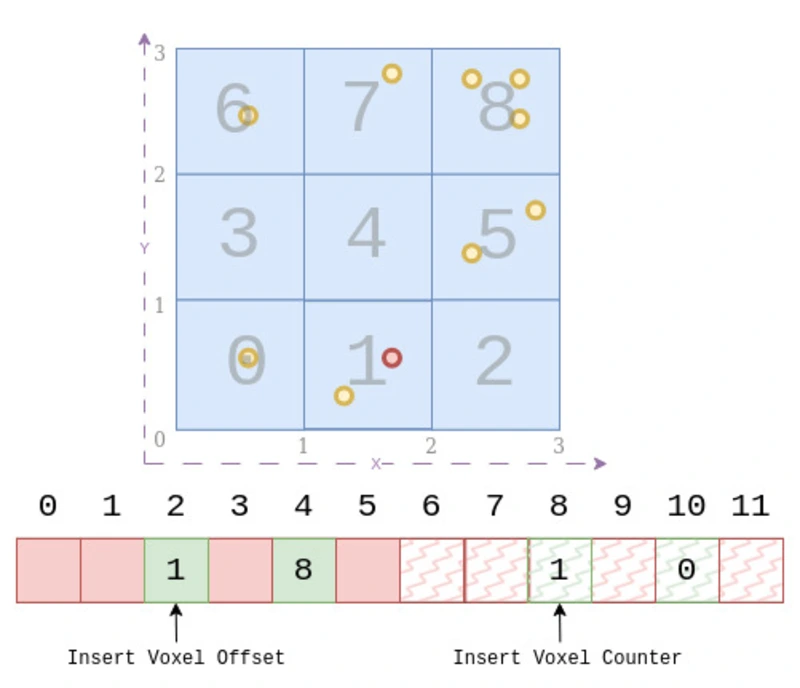
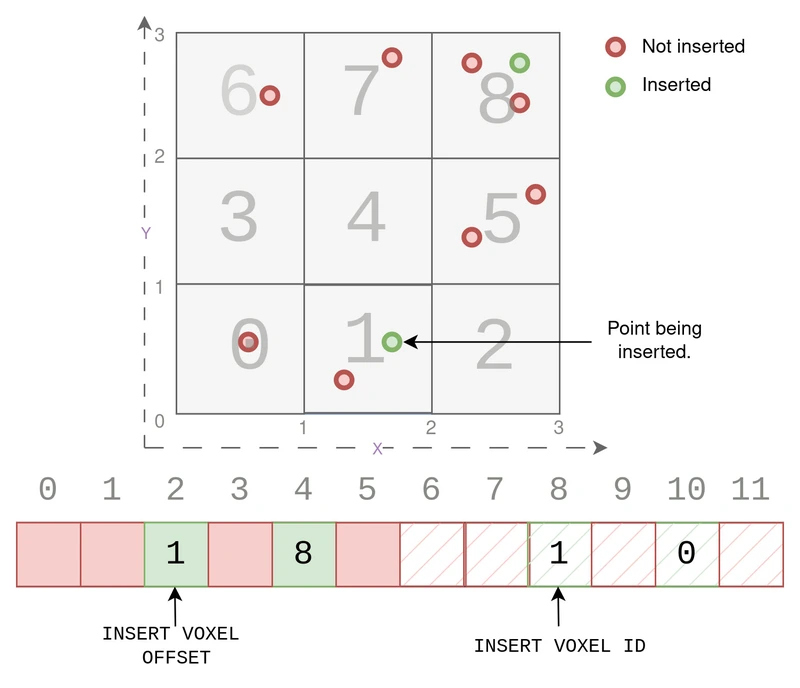
Deploying to gh-pages from @ sanket-pixel/sanket-pixel.github.io@0f0e8f33959f2e5c67426b42b5333c548780f601 🚀

diff --git a/blog/2023/cudaify-your-point-clouds/index.html b/blog/2023/cudaify-your-point-clouds/index.html
@@ -195,19 +195,20 @@
 <h2 id="1-intuition">1. Intuition</h2>
 <p>In this section, we will embark on an intuitive exploration of the point cloud voxelization process using CUDA. To that end, let’s first set the stage by taking a look at a simple 2D grid. We’ll create a 3x3 grid and randomly select 15 points within its boundaries. Some points will also lie slightly outside the grid to make the example more interesting. Visualizing this grid and its sample points, we get the following plot:</p>
 
+<div style="width: 60%;margin: 0 auto;">
 <div class="row">
     <div class="col-sm mt-3 mt-md-0 text-center"> <!-- Add 'text-center' class here -->
         <figure>
 
   <picture>
     
-    <source class="responsive-img-srcset" media="(max-width: 480px)" srcset="/assets/img/blog/blog_2/sample_grid-480.webp"></source>
-    <source class="responsive-img-srcset" media="(max-width: 800px)" srcset="/assets/img/blog/blog_2/sample_grid-800.webp"></source>
-    <source class="responsive-img-srcset" media="(max-width: 1400px)" srcset="/assets/img/blog/blog_2/sample_grid-1400.webp"></source>
+    <source class="responsive-img-srcset" media="(max-width: 480px)" srcset="/assets/img/blog/blog_2/points-480.webp"></source>
+    <source class="responsive-img-srcset" media="(max-width: 800px)" srcset="/assets/img/blog/blog_2/points-800.webp"></source>
+    <source class="responsive-img-srcset" media="(max-width: 1400px)" srcset="/assets/img/blog/blog_2/points-1400.webp"></source>
     
 
     <!-- Fallback to the original file -->
-    <img src="/assets/img/blog/blog_2/sample_grid.png" class="img-fluid rounded z-depth-1" width="auto" height="auto" title="latency compare" onerror="this.onerror=null; $('.responsive-img-srcset').remove();">
+    <img src="/assets/img/blog/blog_2/points.jpeg" class="img-fluid rounded z-depth-1" width="auto" height="auto" title="latency compare" onerror="this.onerror=null; $('.responsive-img-srcset').remove();">
 
   </picture>
 
@@ -218,8 +219,10 @@
 <div class="caption">
     The key steps involved in CUDA based Voxelization
 </div>
+</div>
 
 <p>Now, let us understand one last detail before we begin the actual processing. In the figure shown below, on the left, we have a 2D grid representing the cells with their corresponding indices ranging from (0, 0) to (2, 2). Each cell in the grid is identified by its x and y coordinates, starting from the bottom-left corner and progressing towards the top-right corner. However, from now on, we will refer to this serialized integer index as <code class="language-plaintext highlighter-rouge">voxel_offset</code>,  which uniquely represents each cell in a sequential order from 0 to 8, as shown on the right side of the figure.</p>
+<div style="width: 70%;margin: 0 auto;">
 <div class="row">
     <div class="col-sm mt-3 mt-md-0 text-center"> <!-- Add 'text-center' class here -->
         <figure>
@@ -232,7 +235,7 @@
     
 
     <!-- Fallback to the original file -->
-    <img src="/assets/img/blog/blog_2/serialize.png" class="img-fluid rounded z-depth-1" width="auto" height="auto" title="latency compare" onerror="this.onerror=null; $('.responsive-img-srcset').remove();">
+    <img src="/assets/img/blog/blog_2/serialize.jpeg" class="img-fluid rounded z-depth-1" width="auto" height="auto" title="latency compare" onerror="this.onerror=null; $('.responsive-img-srcset').remove();">
 
   </picture>
 
@@ -242,10 +245,12 @@
 </div>
 <div class="caption">
     The key steps involved in CUDA based Voxelization
+</div> 
 </div>
 <p>This <code class="language-plaintext highlighter-rouge">voxel_offset</code>` plays a crucial role in the upcoming CUDA-based voxelization process, allowing us to efficiently access and process voxel data in a linear manner. By representing the grid in this serialized format, we can easily map each voxel’s position to its corresponding voxel ID, making the hash map implementation more streamlined and intuitive.</p>
 
 <p>The process of converting a point cloud to voxels using CUDA involves three main steps: hash map building, voxelization, and feature extraction as shown in the Figure below. Hash map building efficiently stores information about unique voxels that contain points, eliminating the need to process all grid cells. Voxelization assigns each point to its corresponding voxel, creating a serialized array that stores point features for all voxels. Finally, feature extraction calculates the average features for each voxel, resulting in an efficient representation of point cloud features. In the following section we will understand each of these steps intuitively using our toy example before we delve into the real deal.</p>
+
 <div class="row">
     <div class="col-sm mt-3 mt-md-0 text-center"> <!-- Add 'text-center' class here -->
         <figure>
@@ -273,19 +278,20 @@
 <h4 id="a-build-hashmaps">A. Build Hashmaps</h4>
 <p>Now, let’s explore the crucial role of hash maps in the voxelization process. Before diving into the intricacies of building hash maps, it’s essential to understand why they are necessary. In our 3x3 grid example, we observed that out of the 9 cells, only 6 cells contain points, while the remaining 3 cells are entirely empty (as marked in red in the figure below). This situation presents a compelling opportunity for optimization, as processing all 9x9 cells would be highly inefficient and computationally wasteful. That’s where hash maps comes into play.</p>
 
+<div style="width: 70%;margin: 0 auto;">
 <div class="row">
     <div class="col-sm mt-3 mt-md-0 text-center"> <!-- Add 'text-center' class here -->
         <figure>
 
   <picture>
     
-    <source class="responsive-img-srcset" media="(max-width: 480px)" srcset="/assets/img/blog/blog_2/empty-cells-480.webp"></source>
-    <source class="responsive-img-srcset" media="(max-width: 800px)" srcset="/assets/img/blog/blog_2/empty-cells-800.webp"></source>
-    <source class="responsive-img-srcset" media="(max-width: 1400px)" srcset="/assets/img/blog/blog_2/empty-cells-1400.webp"></source>
+    <source class="responsive-img-srcset" media="(max-width: 480px)" srcset="/assets/img/blog/blog_2/empty_voxels-480.webp"></source>
+    <source class="responsive-img-srcset" media="(max-width: 800px)" srcset="/assets/img/blog/blog_2/empty_voxels-800.webp"></source>
+    <source class="responsive-img-srcset" media="(max-width: 1400px)" srcset="/assets/img/blog/blog_2/empty_voxels-1400.webp"></source>
     
 
     <!-- Fallback to the original file -->
-    <img src="/assets/img/blog/blog_2/empty-cells.png" class="img-fluid rounded z-depth-1" width="auto" height="auto" title="latency compare" onerror="this.onerror=null; $('.responsive-img-srcset').remove();">
+    <img src="/assets/img/blog/blog_2/empty_voxels.jpeg" class="img-fluid rounded z-depth-1" width="auto" height="auto" title="latency compare" onerror="this.onerror=null; $('.responsive-img-srcset').remove();">
 
   </picture>
 
@@ -295,6 +301,7 @@
 </div>
 <div class="caption">
     The key steps involved in CUDA based Voxelization
+</div> 
 </div>
 
 <p>Hash maps offer an efficient way to store and access data by associating each voxel’s position with its corresponding information. By directly mapping the unique voxel positions as keys( <code class="language-plaintext highlighter-rouge">voxel_offset</code> as described earlier ) to their respective <code class="language-plaintext highlighter-rouge">voxel_id</code>s ( will be explained soon) as values, we can efficiently eliminate the need to process all the empty cells. This approach drastically reduces memory consumption and processing time, making voxelization of point clouds significantly faster and more resource-efficient. So, let’s now understand how we go from our scattered 2D points, with certain empty cells, to an efficient and compact hashmap :</p>
@@ -388,6 +395,7 @@ total_voxel++
 <p>As seen in the figure below, we simply insert the given key 8, at the computed slot 4, because it was empty. Then we insert the corresponding value at slot 10, (4+6).
 The value is zero because this is the first unique voxel being inserted in the hash table.</p>
 
+<div style="width: 70%;margin: 0 auto;">
 <div class="row">
 <div class="col-sm mt-3 mt-md-0 text-center">
     <figure>
@@ -400,7 +408,7 @@ The value is zero because this is the first unique voxel being inserted in the h
     
 
     <!-- Fallback to the original file -->
-    <img src="/assets/img/blog/blog_2/insert1.jpg" class="img-fluid rounded z-depth-1" width="auto" height="auto" title="hash table" onerror="this.onerror=null; $('.responsive-img-srcset').remove();">
+    <img src="/assets/img/blog/blog_2/insert1.jpeg" class="img-fluid rounded z-depth-1" width="auto" height="auto" title="hash table" onerror="this.onerror=null; $('.responsive-img-srcset').remove();">
 
   </picture>
 
@@ -410,6 +418,7 @@ The value is zero because this is the first unique voxel being inserted in the h
 </div>
 <div class="caption">
     Example 1 : Hash insert operation for point Pt(2.3,2.8) in red. Inserting key 8 at slot (4) and value 0, at slot (4+6=10). 
+</div> 
 </div>
 
 <h4 id="example-2">Example 2</h4>
@@ -445,6 +454,7 @@ total_voxel++
 <p>As seen in the figure below, we simply insert the given key 1, at the computed slot 2, because it was empty. Then we insert the corresponding value at slot 8, (2+6).
 The value is the count of the current voxels, which is 1.</p>
 
+<div style="width: 70%;margin: 0 auto;">
 <div class="row">
 <div class="col-sm mt-3 mt-md-0 text-center">
     <figure>
@@ -457,7 +467,7 @@ The value is the count of the current voxels, which is 1.</p>
     
 
     <!-- Fallback to the original file -->
-    <img src="/assets/img/blog/blog_2/insert2.jpg" class="img-fluid rounded z-depth-1" width="auto" height="auto" title="hash table" onerror="this.onerror=null; $('.responsive-img-srcset').remove();">
+    <img src="/assets/img/blog/blog_2/insert2.jpeg" class="img-fluid rounded z-depth-1" width="auto" height="auto" title="hash table" onerror="this.onerror=null; $('.responsive-img-srcset').remove();">
 
   </picture>
 
@@ -467,6 +477,7 @@ The value is the count of the current voxels, which is 1.</p>
 </div>
 <div class="caption">
      Example 2 : Hash insert operation for point Pt(1.8,0.5) shown in red. Inserting key 1 at slot (2) and value 0, at slot (2+6=8). 
+</div> 
 </div>
 
 <h4 id="example-3">Example 3</h4>
@@ -503,6 +514,7 @@ total_voxel++
 <p>Now we look at a more interesting example where the slot computed using the modulus of the hashed key is already present in the hash table. So a collision occurs, because the slot is 
 already filled up by a different key. We look at this case while trying to insert a Point (1.7,2.8). In such a case of collision, we simply insert the key in the next free slot, which in this case is slot (3), as shown below.</p>
 
+<div style="width: 70%;margin: 0 auto;">
 <div class="row">
 <div class="col-sm mt-3 mt-md-0 text-center">
     <figure>
@@ -515,7 +527,7 @@ already filled up by a different key. We look at this case while trying to inser
     
 
     <!-- Fallback to the original file -->
-    <img src="/assets/img/blog/blog_2/collision.jpg" class="img-fluid rounded z-depth-1" width="auto" height="auto" title="hash table" onerror="this.onerror=null; $('.responsive-img-srcset').remove();">
+    <img src="/assets/img/blog/blog_2/collision.jpeg" class="img-fluid rounded z-depth-1" width="auto" height="auto" title="hash table" onerror="this.onerror=null; $('.responsive-img-srcset').remove();">
 
   </picture>
 
@@ -526,6 +538,7 @@ already filled up by a different key. We look at this case while trying to inser
 <div class="caption">
      Example 3 : Hash insert operation for point Pt(1.7,2.8) shown in red. The slot (2) already has key 1 present, which is different from key 7. This indicates a collision, we insert in 
      in the next empty slot which is slot 3. This is called linear probing.
+</div> 
 </div>
 
 <h4 id="example-4">Example 4</h4>
@@ -560,19 +573,20 @@ hash_table[slot] != Empty &amp;&amp; hash_table[slot] == key
 <p>As seen in the figure below, we skip insertion, at the computed slot 2, because it already had the current points key 1. The goal is to only store unique <code class="language-plaintext highlighter-rouge">voxel_offset</code> as key
 and the number of such unique voxels as values. Since this <code class="language-plaintext highlighter-rouge">voxel_offset</code> has already been inserted in the hash table and is not unique, we simply skip insertion.</p>
 
+<div style="width: 70%;margin: 0 auto;">
 <div class="row">
 <div class="col-sm mt-3 mt-md-0 text-center">
     <figure>
 
   <picture>
     
-    <source class="responsive-img-srcset" media="(max-width: 480px)" srcset="/assets/img/blog/blog_2/already_inserted-480.webp"></source>
-    <source class="responsive-img-srcset" media="(max-width: 800px)" srcset="/assets/img/blog/blog_2/already_inserted-800.webp"></source>
-    <source class="responsive-img-srcset" media="(max-width: 1400px)" srcset="/assets/img/blog/blog_2/already_inserted-1400.webp"></source>
+    <source class="responsive-img-srcset" media="(max-width: 480px)" srcset="/assets/img/blog/blog_2/already-inserted-480.webp"></source>
+    <source class="responsive-img-srcset" media="(max-width: 800px)" srcset="/assets/img/blog/blog_2/already-inserted-800.webp"></source>
+    <source class="responsive-img-srcset" media="(max-width: 1400px)" srcset="/assets/img/blog/blog_2/already-inserted-1400.webp"></source>
     
 
     <!-- Fallback to the original file -->
-    <img src="/assets/img/blog/blog_2/already_inserted.jpg" class="img-fluid rounded z-depth-1" width="auto" height="auto" title="hash table" onerror="this.onerror=null; $('.responsive-img-srcset').remove();">
+    <img src="/assets/img/blog/blog_2/already-inserted.jpeg" class="img-fluid rounded z-depth-1" width="auto" height="auto" title="hash table" onerror="this.onerror=null; $('.responsive-img-srcset').remove();">
 
   </picture>
 
@@ -581,10 +595,10 @@ and the number of such unique voxels as values. Since this <code class="language
 </div>
 </div>
 <div class="caption">
-     Example 2 : Hash insert operation for point Pt(1.3,0.3) shown in red.
+     Example 4 : Hash insert operation for point Pt(1.3,0.3) shown in red.
      No insertion happens, since slot already has same key.  
+</div> 
 </div>
-
 <p>And with that we cover all possible cases of hash insertion, and complete the major challenge of creation of the hash table for the given input points.</p>
 
 <!-- ## 2. Inside the Code
